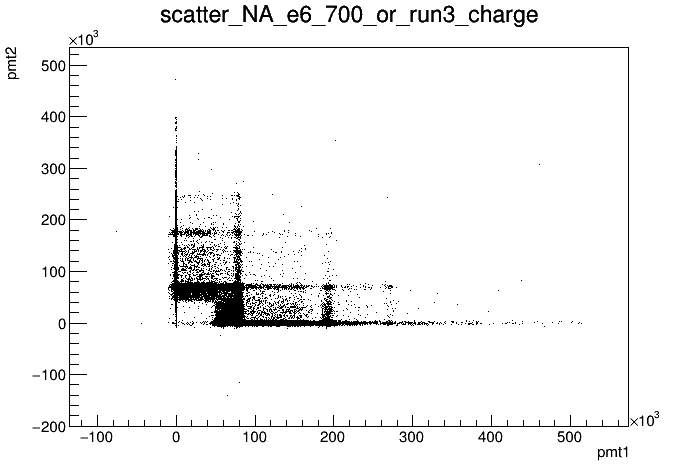
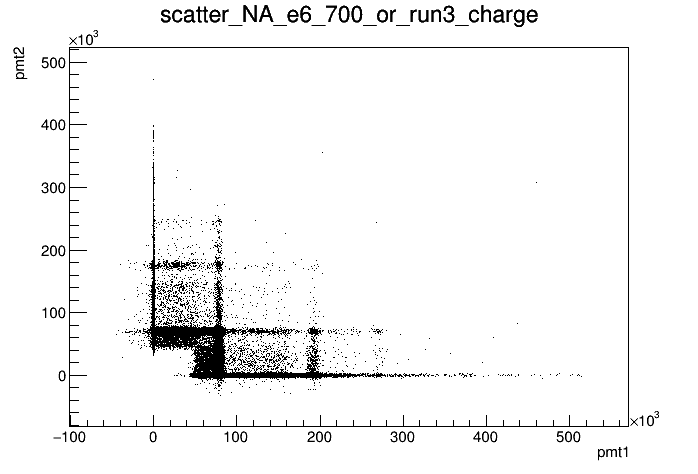
scatter plot

diff --git a/scatter.cpp b/scatter.cpp
@@ -8,6 +8,7 @@
 #include <list>
 #include <float.h>
 #include <tuple>
+//#include<bits/stdc++.h>
 
 #include <TCanvas.h>
 #include <TH1F.h>
@@ -16,8 +17,7 @@
 #include "tools.h"
 
 using namespace std;
-
-tuple<vector<float>,vector<float>, vector<long unsigned int>>  charge_amp(string name){
+vector<vector<float>>  charge_amp(string name){
     cout << "Processing: " << name << endl; 
     ifstream myfile;     
     myfile.open("data/" + name + ".txt", ios::in | ios::out);  
@@ -25,8 +25,8 @@ tuple<vector<float>,vector<float>, vector<long unsigned int>>  charge_amp(string
     if (myfile.is_open()){
         string tp;
         vector <float> w;
-        int k=0, m, j=0;
-        while(getline(myfile, tp)){ //read data from file object and put it into string.
+        int k=0, m, j=0, f=0;
+        while(getline(myfile, tp)/* && f<100000000*/){ //read data from file object and put it into string.
             if (isalpha(tp[0]) == 0) {
                 if (k>0) {
                     k=0;
@@ -43,23 +43,24 @@ tuple<vector<float>,vector<float>, vector<long unsigned int>>  charge_amp(string
                 }                
                 k++;
             }
+        f++;
         }
         //non prendo l'ultimo evento perchè è incompleto
         myfile.close(); //close the file object.
     }    
     
-    vector <float> charge (v.size());
-    vector <float> amp (v.size());
+    vector <float> charge(v.size());
+    vector <float> amp(v.size());
     float h, min, s, u;
-    vector<long unsigned int> idx_strange;
+    vector<float> idx_strange;
     int a=0;
     for (long unsigned int i=0; i<v.size(); i++){
         h = 0;
         s=0;
         u=0;
-        for (int j=0; j<100; j++){
-            h += v[i][j] / 100;
-            if (v[i][j]<14500 && u==0){
+        for (int j=0; j<200; j++){
+            h += v[i][j] / 200;
+            if (v[i][j]<14600 && u==0){
                 //cout << "valore piccolo: "<< i <<endl;
                 idx_strange.push_back(i);
                 u++;
@@ -71,22 +72,28 @@ tuple<vector<float>,vector<float>, vector<long unsigned int>>  charge_amp(string
         }                
         min =*min_element(v[i].begin(), v[i].end());
 
-        charge.push_back(s);
-        amp.push_back(h-min); 
+        charge[i]=(s);
+        amp[i]=(h-min); 
 
-        if (a==0){
+        if (a==0 /*&& (find(idx_strange.begin(), idx_strange.end(), i) == idx_strange.end()) && charge[i]<-300000*/){
+            cout << "wave   " << i << "     charge" << charge[i] <<"    amp" << amp[i]<<endl;
             vector <float> t(1030);
             iota(begin(t), end(t), 0);
             TCanvas *c_wave = new TCanvas(&(name + "_wave")[0], &(name + "_wave")[0]);
-            TGraph* gr = new TGraph(t.size(), &t[0], &v[0][0]);
+            TGraph* gr = new TGraph(t.size(), &t[0], &v[i][0]);
             gr->SetNameTitle(&(name + "_wave")[0], &(name + "_wave")[0]);
-            gr->SetMarkerStyle(21);
+            gr->SetMarkerStyle(2);
             gr->Draw("AP");
             a++;
             //c_wave->SaveAs(&("scatter/" + name + "_wave.png")[0]);            
         }    
     }
-    return make_tuple(charge, amp, idx_strange);
+    cout<<idx_strange.size() <<endl;
+    vector<vector<float>> vecs;
+    vecs.push_back(charge);
+    vecs.push_back(amp);
+    vecs.push_back(idx_strange);
+    return vecs;
 }
 
 
@@ -94,12 +101,12 @@ tuple<vector<float>,vector<float>, vector<long unsigned int>>  charge_amp(string
 
 void scatter(){
     map <string, string> pair_names ={
-        //{"pmt1_NA_e6_ext_run1","pmt2_NA_e6_ext_run1"},
-        {"pmt1_NA_e6_ext_run2","pmt2_NA_e6_ext_run2"}
-        //{"pmt1_NA_e6_ext_run3", "pmt3_NA_e6_ext_run3"},
-        //{"pmt1_NA_e6_100_or_run1", "pmt2_NA_e6_100_or_run1"},
-        //{"pmt1_NA_e6_700_or_run2", "pmt2_NA_e6_700_or_run2"},
-        //{"pmt1_NA_e6_700_or_run3", "pmt2_NA_e6_700_or_run3"}
+        /*{"pmt1_NA_e6_ext_run1","pmt2_NA_e6_ext_run1"},
+        {"pmt1_NA_e6_ext_run2","pmt2_NA_e6_ext_run2"},
+        {"pmt1_NA_e6_ext_run3", "pmt3_NA_e6_ext_run3"},
+        {"pmt1_NA_e6_100_or_run1", "pmt2_NA_e6_100_or_run1"},
+        {"pmt1_NA_e6_700_or_run2", "pmt2_NA_e6_700_or_run2"},*/
+        {"pmt1_NA_e6_700_or_run3", "pmt2_NA_e6_700_or_run3"}
     };
 
     for (const auto &pair_name : pair_names){  
@@ -110,42 +117,92 @@ void scatter(){
         string pmt_a = name_a.substr(0, 4);
         string pmt_b = name_b.substr(0, 4);
 
-        vector <float> charge_a, amp_a, charge_b, amp_b;
-        vector<long unsigned int> idx_strange_a, idx_strange_b;
+        vector <float> charge_a, amp_a, charge_b, amp_b, idx_strange_a, idx_strange_b;
+        //vector<long unsigned int> idx_strange_a, idx_strange_b;
+        vector<vector<float>> vecs_a, vecs_b;
 
-        tie(charge_a, amp_a, idx_strange_a) = charge_amp(name_a);
-        tie(charge_b, amp_b, idx_strange_b) = charge_amp(name_b); 
+        vecs_a = charge_amp(name_a);
+        vecs_b= charge_amp(name_b);
+
+        charge_a=vecs_a[0];
+        amp_a=vecs_a[1];
+        idx_strange_a=vecs_a[2];
+        charge_b=vecs_b[0];
+        amp_b=vecs_b[1];
+        idx_strange_b=vecs_b[2];
+
+
+        cout<<"strange a " <<idx_strange_a.size() <<endl;
+        for (long unsigned int i=0; i< idx_strange_a.size(); i++){
+           // cout<<i << "    " <<idx_strange_a[i] <<endl;
+        }
+        cout<<"strange b "<<idx_strange_b.size() <<endl;
+        for (long unsigned int i=0; i< idx_strange_b.size(); i++){
+            //cout<<i << "    " <<idx_strange_b[i] <<endl;
+        }
+        cout <<charge_a.size()<<endl;
+        cout <<charge_b.size()<<endl;
+        cout <<amp_a.size()<<endl;
+        cout <<amp_b.size()<<endl;
+        //for (int e=charge_a.size()-1; e< charge_a.size(); e++){
+            //if (charge_a[e]==0){
+            int e = 4489;
+            cout << "idx  "<<e<<endl;
+            cout <<charge_a[e]<<endl;
+            cout <<charge_b[e]<<endl;
+            cout <<amp_a[e]<<endl;
+            cout <<amp_b[e]<<endl;
+            //break;
         
-        cout <<"tot charge= " <<charge_a.size() <<endl;
+
+        cout <<"tot charge= " <<charge_a.size()<< "   " << charge_b.size() <<endl;
         int q=0;
-        for (long unsigned int i=0; i< charge_a.size(); i++){
-            //if ((find(idx_strange_a.begin(), idx_strange_a.end(), i) == idx_strange_a.end()) || (find(idx_strange_b.begin(), idx_strange_b.end(), i) == idx_strange_b.end())){
-            if(charge_a[i]<-10000 || charge_b[i]<-10000){
-                //cout << charge_a[i] << "   " << charge_b[i] <<endl;
-                charge_a.erase(charge_a.begin()+i);
-                charge_b.erase(charge_b.begin()+i);    
+        vector<float> charge_a_def, charge_b_def, amp_a_def, amp_b_def; 
+
+        for (int i=0; i< charge_a.size(); i++){
+            if ((find(idx_strange_a.begin(), idx_strange_a.end(), i) == idx_strange_a.end()) && (find(idx_strange_b.begin(), idx_strange_b.end(), i) == idx_strange_b.end())){
+            //if ((count(idx_strange_a.begin(), idx_strange_a.end(), i) ) || (count(idx_strange_b.begin(), idx_strange_b.end(), i) )){
+            //if(charge_a[i]<-10000 || charge_b[i]<-10000){
+                if (i==4489){
+                    cout <<"---"<<endl;
+                    cout<< i <<endl;
+                    cout << charge_a[i] << "   " << charge_b[i] <<endl;
+                    cout << charge_a[i+1] << "   " << charge_b[i+1] <<endl;
+                    cout << charge_a[i-1] << "   " << charge_b[i-1] <<endl;  
+                    cout <<"---"<<endl;
+                  
+                }
+
+                charge_a_def.push_back(charge_a[i]);
+                charge_b_def.push_back(charge_b[i]);
+                amp_a_def.push_back(amp_a[i]);
+                amp_b_def.push_back(amp_b[i]);
+
+                //charge_a.erase(charge_a.begin()+i);
+                //charge_b.erase(charge_b.begin()+i);  
+
                 q++;            
             }
         }
+    
         cout << "erased = " << q <<endl;
         cout << "remaining charge =" << charge_a.size() << "   " << charge_b.size() <<endl;
-        
+        cout << charge_a_def[4489]<< endl;
 
 
         // Covarianza Campione
 
         vector <float> picco_a,picco_b;
-        for (long unsigned int n=0 ; n<charge_a.size() ; n++){
+        for (long unsigned int n=0 ; n<charge_a_def.size() ; n++){
 
-            if(charge_a[n]<80000 && charge_a[n]>73000 && charge_b[n]<74000 && charge_b[n]>65000){ // Intervalli tarati su intervalli di picco A dei pmt1 e pmt2 in ext_run2
+            if(charge_a_def[n]<80000 && charge_a_def[n]>73000 && charge_b_def[n]<74000 && charge_b_def[n]>65000){ // Intervalli tarati su intervalli di picco A dei pmt1 e pmt2 in ext_run2
 
-                picco_a.push_back(charge_a[n]);
-                picco_b.push_back(charge_b[n]);
-
+                picco_a.push_back(charge_a_def[n]);
+                picco_b.push_back(charge_b_def[n]);
             } 
         }
-        float picco_a_med=accumulate(picco_a.begin(), picco_a.begin(), 0)/picco_a.size();
-        float picco_b_med=accumulate(picco_b.begin(), picco_b.begin(), 0)/picco_b.size();
+        float picco_a_med=accumulate(picco_a.begin(), picco_a.end(), 0)/picco_a.size();
+        float picco_b_med=accumulate(picco_b.begin(), picco_b.end(), 0)/picco_b.size();
         float cov_camp=0;
 
         for(int n=0; n<picco_a.size() ; n++){
@@ -156,7 +213,7 @@ void scatter(){
 
 
         TCanvas *c_scatter_charge = new TCanvas(&("scatter_" + name + "_charge")[0], &("scatter_" + name + "_charge")[0]);
-        TGraph* gr_charge = new TGraph(min(charge_a.size(), charge_b.size()),&charge_a[0],&charge_b[0]);
+        TGraph* gr_charge = new TGraph(min(charge_a_def.size(), charge_b_def.size()),&charge_a_def[0],&charge_b_def[0]);
         gr_charge->SetMarkerStyle(1);
         gr_charge->SetNameTitle(&("scatter_" + name + "_charge")[0],&("scatter_" + name + "_charge")[0]);
         gr_charge->GetXaxis()->SetTitle(&(pmt_a)[0]);
@@ -165,7 +222,7 @@ void scatter(){
         c_scatter_charge->SaveAs(&("scatter/scatter_" + name +"_charge"+ ".png")[0]);
 
         TCanvas *c_scatter_amp = new TCanvas(&("scatter_" + name + "_amp")[0],&("scatter_" + name + "_amp")[0]);
-        TGraph* gr_amp = new TGraph(min(amp_a.size(), amp_b.size()),&amp_a[0],&amp_b[0]);
+        TGraph* gr_amp = new TGraph(min(amp_a_def.size(), amp_b_def.size()),&amp_a_def[0],&amp_b_def[0]);
         gr_amp->SetMarkerStyle(1);
         gr_amp->SetNameTitle(&("scatter_" + name + "_amp")[0],&("scatter_" + name + "_amp")[0]);
         gr_amp->GetXaxis()->SetTitle(&(pmt_a)[0]);

diff --git a/main_func.cpp b/main_func.cpp
@@ -56,14 +56,14 @@ vector <TH1F*> make_histo(string name){
     
     vector <float> charge (v.size());
     vector <float> amp (v.size());
-    float h, u, min,min_idx,min_h,  charge_max=FLT_MIN, amp_max=FLT_MIN, charge_min=FLT_MAX, amp_min=FLT_MAX;
+    float h, u, min, charge_max=FLT_MIN, amp_max=FLT_MIN, charge_min=FLT_MAX, amp_min=FLT_MAX;
     vector <float> idx_strange;
     for (long unsigned int i=0; i<v.size(); i++){
         h = 0;
         u=0;
         for (int j=0; j<100; j++){
             h += v[i][j] / 100;
-            if (v[i][j]<14600&& u==0){
+            if (v[i][j]<14600 && u==0){
                 //cout << "valore piccolo: "<< v[i][j] <<endl;
                 idx_strange.push_back(i);
                 u++;
@@ -79,8 +79,8 @@ vector <TH1F*> make_histo(string name){
         charge_min = (charge[i]<charge_min) ? charge[i] : charge_min;
         amp_min = (amp[i]<amp_min) ? amp[i] : amp_min;      
     }
-    TH1F *histo_charge=  new TH1F(&(name + "_charge")[0],&(name + "_charge")[0], 2600, static_cast<int>(charge_min), static_cast<int>(charge_max));
-    TH1F *histo_amp=  new TH1F(&(name + "_amp")[0],&(name + "_amp")[0], 2800, static_cast<int>(amp_min), static_cast<int>(amp_max));
+    TH1F *histo_charge=  new TH1F(&(name + "_charge")[0],&(name + "_charge")[0], 1300, static_cast<int>(charge_min), static_cast<int>(charge_max));
+    TH1F *histo_amp=  new TH1F(&(name + "_amp")[0],&(name + "_amp")[0], 1400, static_cast<int>(amp_min), static_cast<int>(amp_max));
     for (long unsigned int i=0; i< charge.size(); i++){
         if (find(idx_strange.begin(), idx_strange.end(), i) == idx_strange.end()){
             histo_charge->Fill(charge[i]);
@@ -115,8 +115,8 @@ vector <TH1F*> make_histo(string name){
 void main_func (){
     gROOT->SetBatch(kFALSE);
     vector <TH1F*> histos;
-    TFile *outfile= new TFile("histograms/histograms_pmt1_NA.root", "RECREATE");
-    list <string> names ={/*"pmt1_NA_e6_100_or_run1",
+    TFile *outfile= new TFile("histograms/histograms.root", "RECREATE");
+    list <string> names ={"pmt1_NA_e6_100_or_run1",
                         "pmt2_NA_e6_100_or_run1",
                         "pmt1_NA_e6_700_or_run2",
                         "pmt2_NA_e6_700_or_run2",
@@ -127,9 +127,9 @@ void main_func (){
                         "pmt1_NA_e6_ext_run2",
                         "pmt2_NA_e6_ext_run2",
                         "pmt1_NA_e6_ext_run3",
-                        "pmt3_NA_e6_ext_run3",*/
+                        "pmt3_NA_e6_ext_run3",
                         "pmt1_NA_e6_100"
-                        /*"pmt2_NA_e6_100",
+                        "pmt2_NA_e6_100",
                         "pmt3_NA_e6_100",
                         "pmt1_co_100", 
                         "pmt2_co_100",
@@ -142,7 +142,7 @@ void main_func (){
                         "pmt1_bkg_100", 
                         "pmt2_bkg_100", 
                         "pmt1_null", 
-                        "pmt2_null"*/};
+                        "pmt2_null"};
     TStopwatch time_tot;
     time_tot.Start();                
     for(list<string>::const_iterator name = names.begin(); name != names.end(); ++name){

diff --git a/calibration.cpp b/calibration.cpp
@@ -40,9 +40,11 @@ vector<float> fit_gaus (TFile *f ,string name_pmt, string type, vector<float> ra
         gStyle->SetOptFit(1111);
 
         gaus_params.push_back(gaus1->GetParameter(1));
-        gaus_params.push_back(gaus1->GetParError(1)*10);
+        gaus_params.push_back(gaus1->GetParameter(2));
+        //gaus_params.push_back(gaus1->GetParError(1));
         gaus_params.push_back(gaus2->GetParameter(1));
-        gaus_params.push_back(gaus2->GetParError(1)*10);
+        gaus_params.push_back(gaus2->GetParameter(2));
+        //gaus_params.push_back(gaus2->GetParError(1));
         i +=4;
         c->SaveAs(&("calibration/" + *sample + type + "_calibration.png")[0]);
 
@@ -115,7 +117,7 @@ void calibration(){
         /*{"pmt3",{{28000,33000,33000,38000,22000, 40000, 90000, 120000},
             {}}}*/
     };
-    ofstream out_file("calibration/peak_energy.txt");
+    ofstream out_file("calibration/peak_energy_high.txt");
     TFile *f = new TFile("histograms/histograms_calibration.root");
 
     vector <string> energy;
